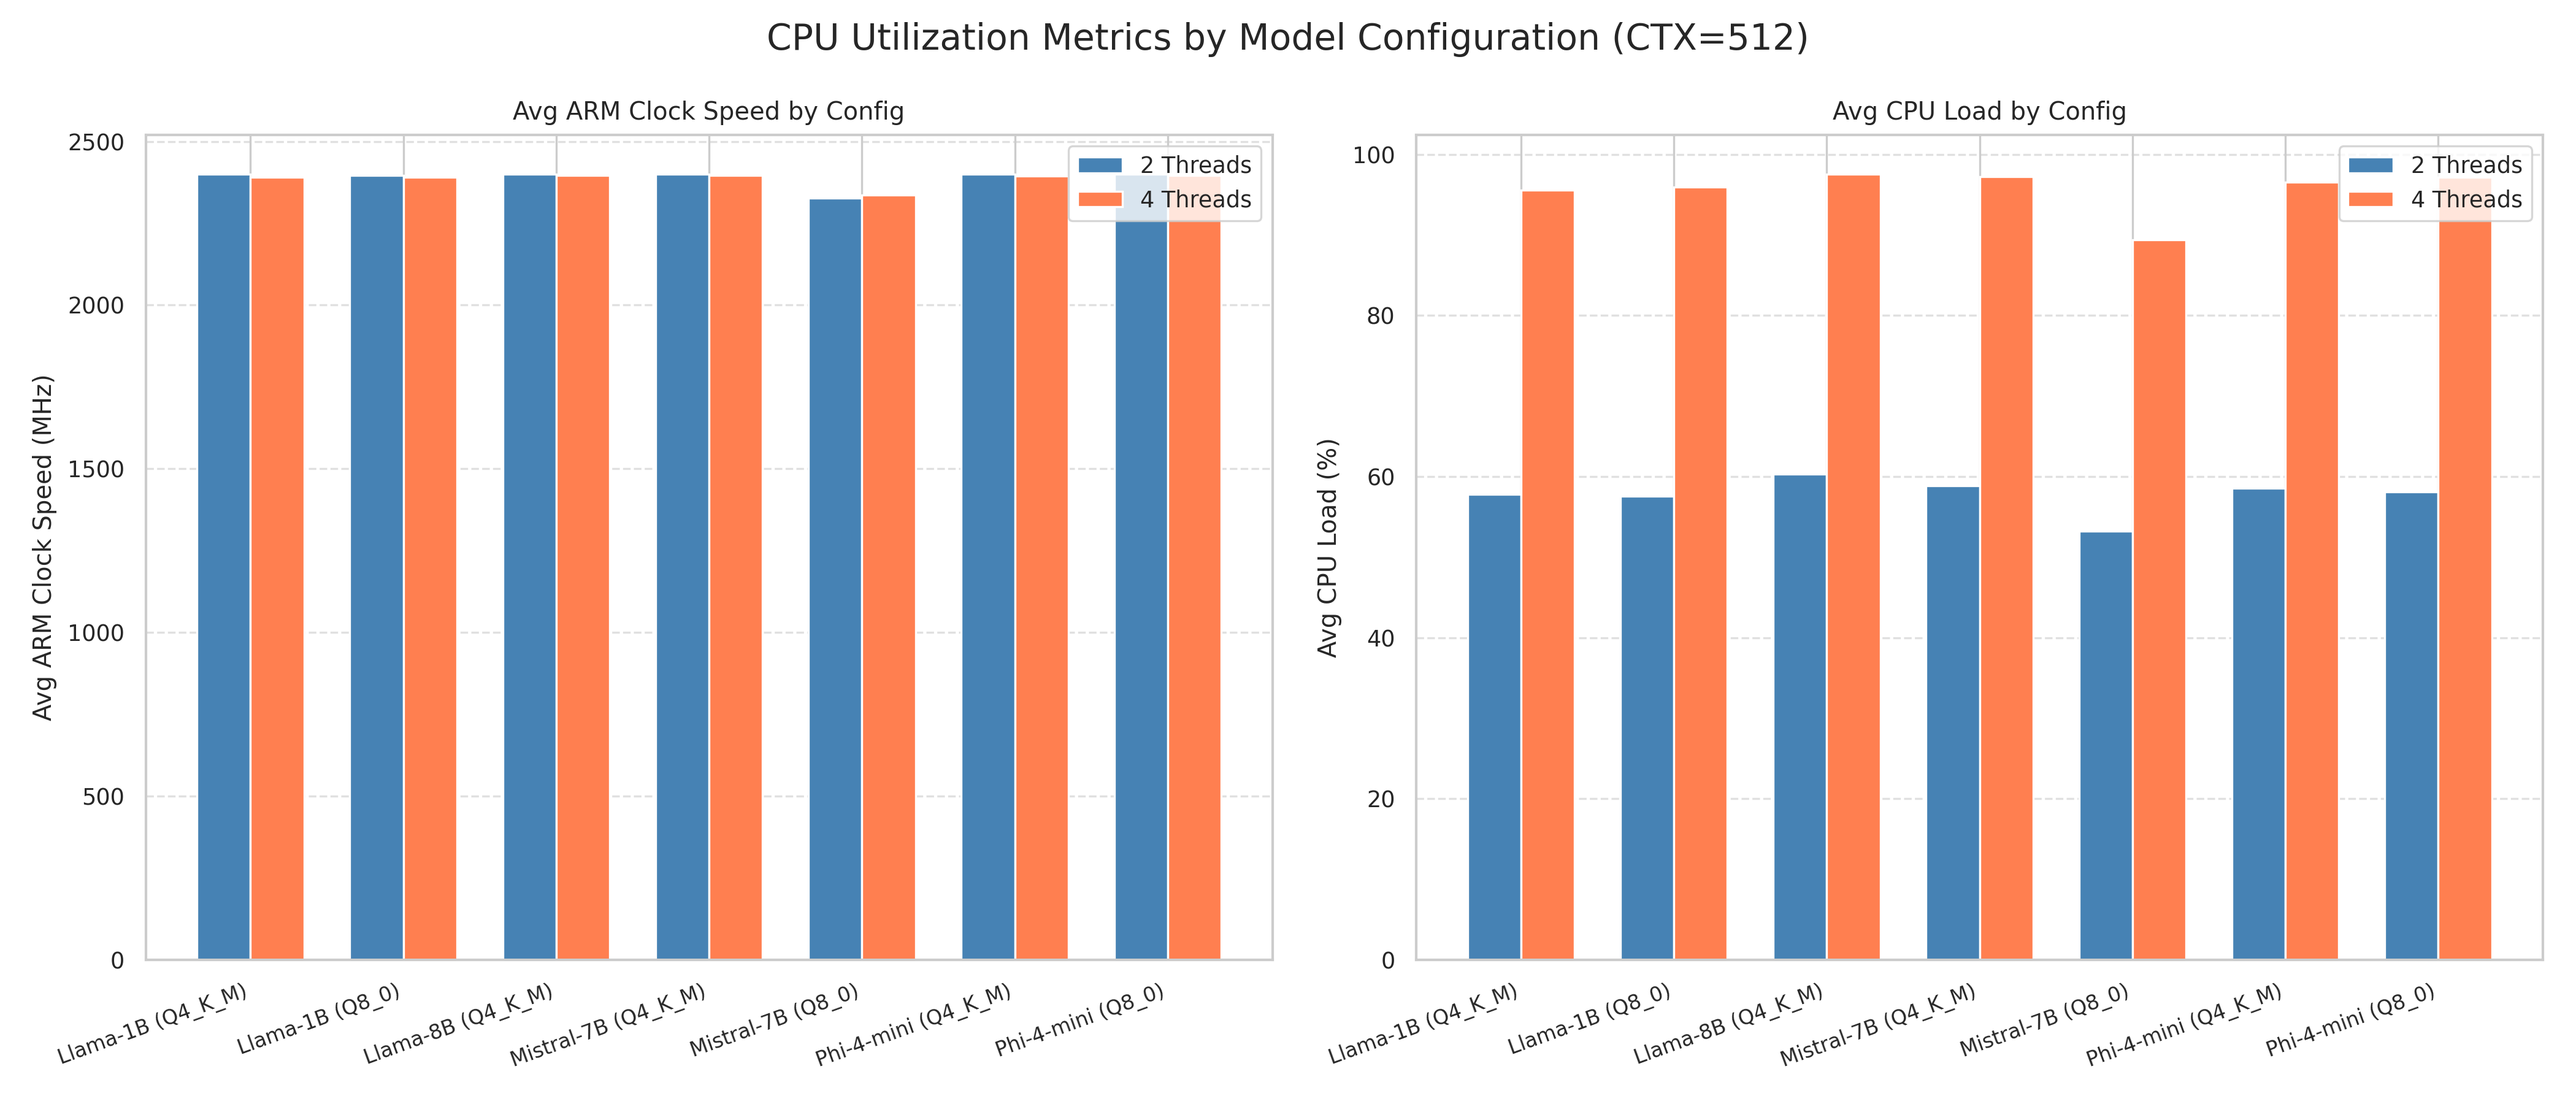
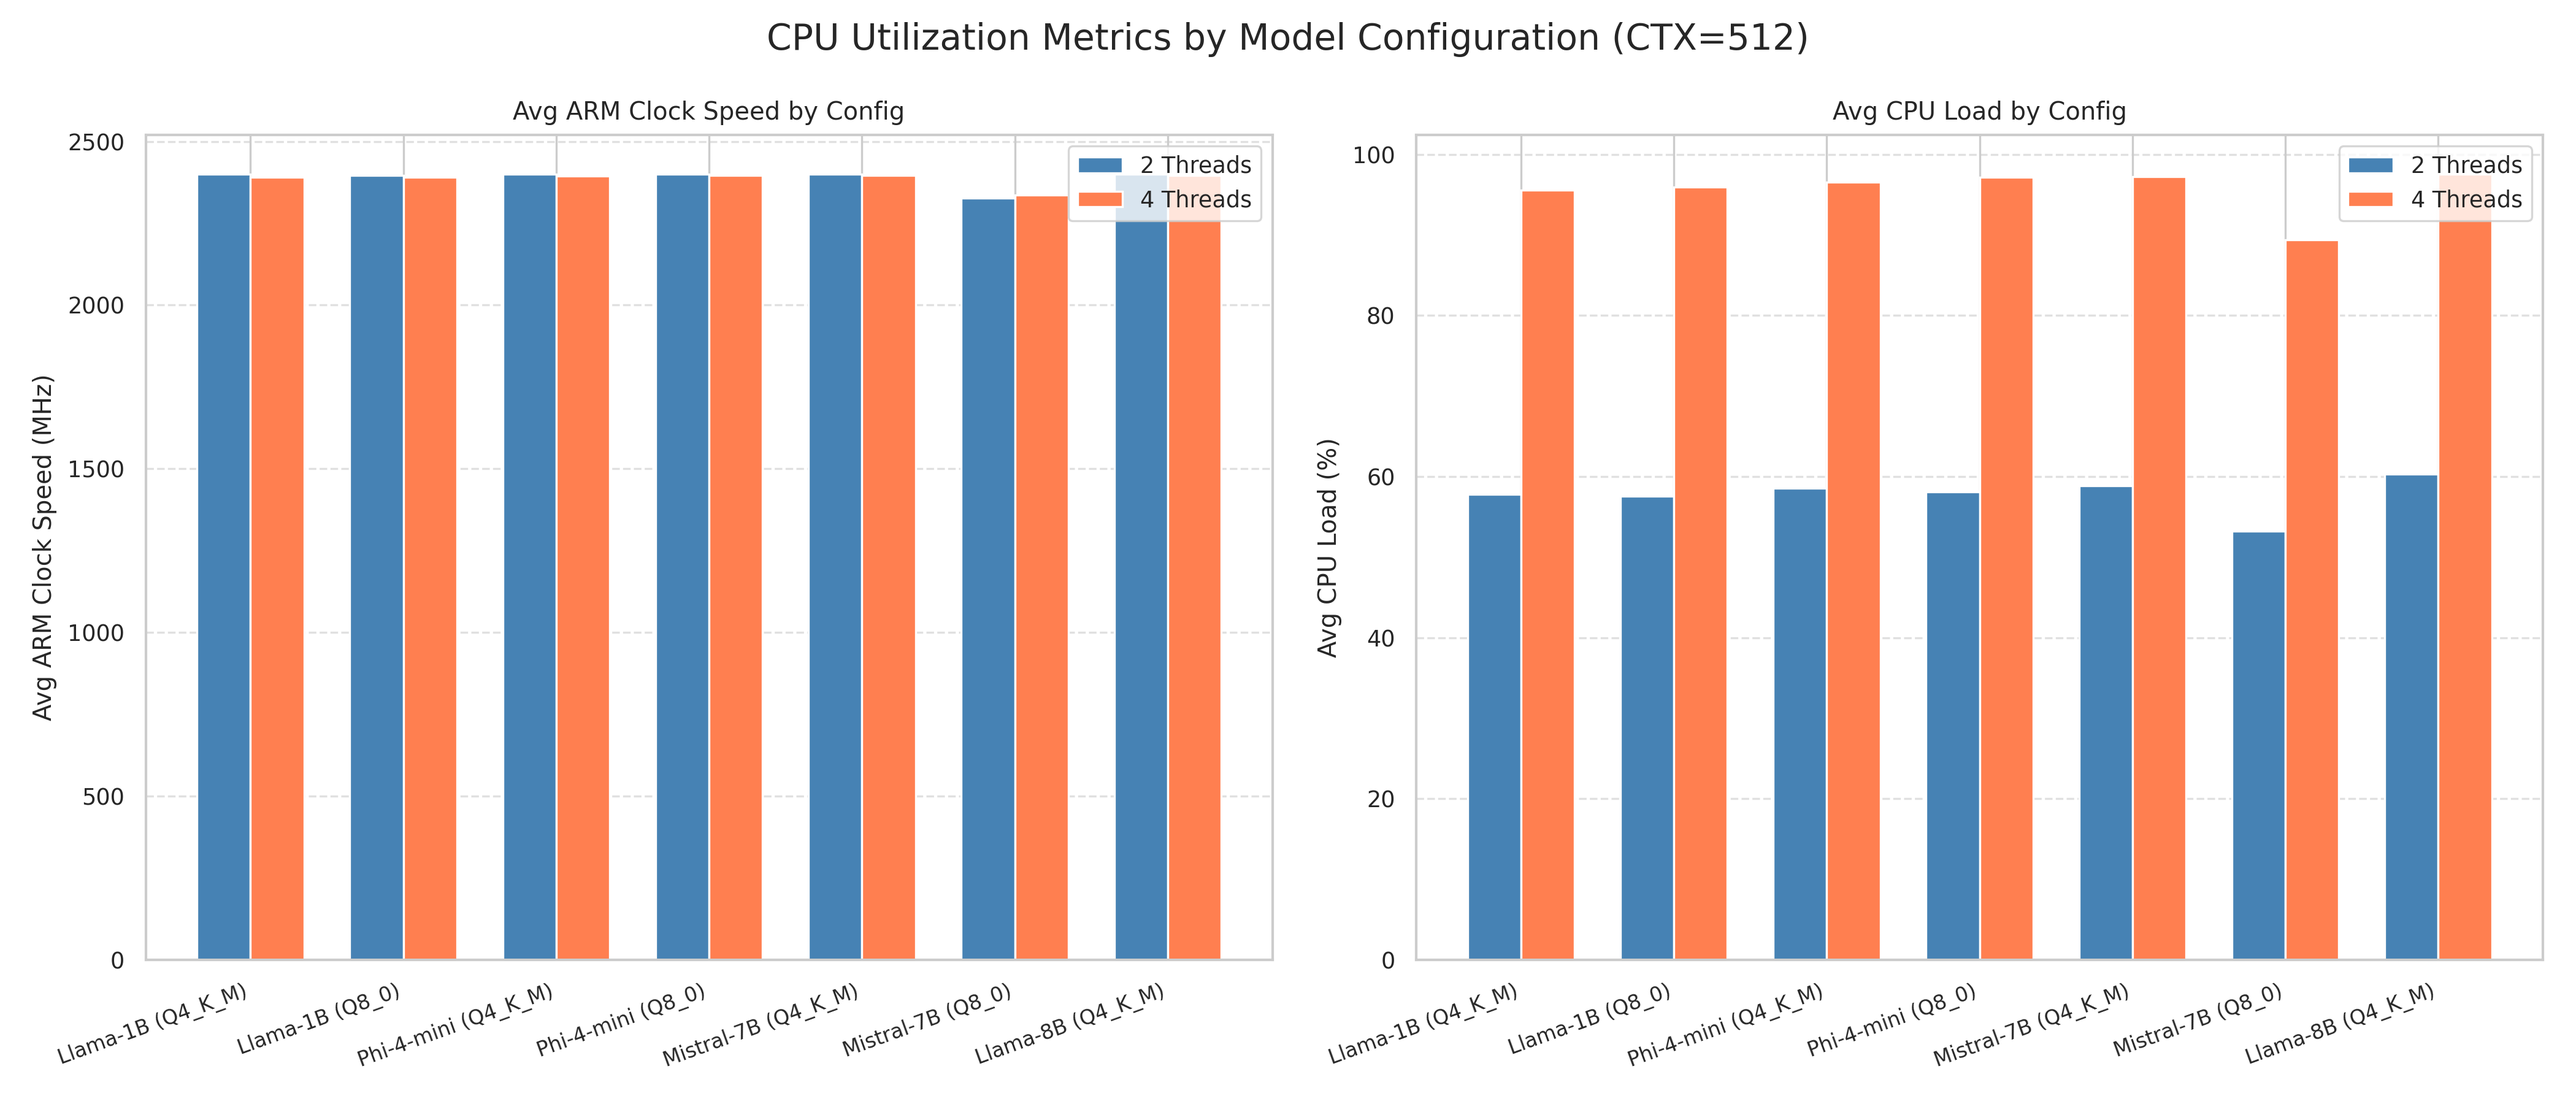
minor updates to plots

diff --git a/scripts/visualizer.py b/scripts/visualizer.py
@@ -13,6 +13,16 @@ DATA_DIR = "../data"
 PLOT_DIR = "../data/plots"
 os.makedirs(PLOT_DIR, exist_ok=True)
 
+# CHANGE: explicit ordering by parameter count — used everywhere to enforce consistent layout
+model_order = ['Llama-1B', 'Phi-4-mini', 'Mistral-7B', 'Llama-8B']
+quant_order  = ['Q4_K_M', 'Q8_0']
+model_full_order = [f"{m} ({q})" for m in model_order for q in quant_order]
+
+def reorder_pivot(pivot, order, col='Model_Full'):
+    """Reindex a pivot dataframe's rows to match the desired model order."""
+    available = [m for m in order if m in pivot[col].values]
+    return pivot.set_index(col).reindex(available).reset_index()
+
 def analyze_results():
     # 1. Load Master Results
     # CHANGE: Explicitly specify all 18 column names — pipeline writes 18 values per row
@@ -35,11 +45,17 @@ def analyze_results():
         'Meta-Llama-3.1-8B': 'Llama-8B'
     }
     master_df['Model_Short'] = master_df['Model'].map(label_map).fillna(master_df['Model'])
-    master_df['Model_Full'] = master_df['Model_Short'] + " (" + master_df['Quant'] + ")"
+    master_df['Model_Full']  = master_df['Model_Short'] + " (" + master_df['Quant'] + ")"
+
+    # CHANGE: enforce parameter-size ordering on label columns so all plots are consistent
+    master_df['Model_Short'] = pd.Categorical(master_df['Model_Short'], categories=model_order,      ordered=True)
+    master_df['Model_Full']  = pd.Categorical(master_df['Model_Full'],  categories=model_full_order, ordered=True)
 
     # 2. Compute Averages per Model/Quant/Context
     # CHANGE: Added hardware metric columns to aggregation
-    summary = master_df.groupby(['Model', 'Model_Short', 'Quant', 'Context', 'Threads']).agg({
+    summary = master_df.groupby(
+        ['Model', 'Model_Short', 'Quant', 'Context', 'Threads'], observed=True
+    ).agg({
         'TPS': 'mean',
         'PPL': 'mean',
         'TTFT': 'mean',
@@ -53,7 +69,11 @@ def analyze_results():
         'Throttled': 'max'
     }).reset_index()
 
-    summary['Model_Full'] = summary['Model_Short'] + " (" + summary['Quant'] + ")"
+    summary['Model_Full'] = summary['Model_Short'].astype(str) + " (" + summary['Quant'] + ")"
+    summary['Model_Full'] = pd.Categorical(summary['Model_Full'], categories=model_full_order, ordered=True)
+
+    # CHANGE: sort summary by the explicit model size order for consistent downstream use
+    summary = summary.sort_values(['Model_Short', 'Quant', 'Context', 'Threads']).reset_index(drop=True)
 
     print("\n" + "="*80)
     print(f"{'MODEL SUMMARY STATISTICS':^80}")
@@ -62,15 +82,18 @@ def analyze_results():
 
     # --- PLOT 1: The Pareto Frontier (PPL vs TPS) ---
     # Average over prompts and threads; one point per model+quant+context combination
-    pareto_df = summary.groupby(['Model_Short', 'Quant', 'Context']).agg({
+    pareto_df = summary.groupby(['Model_Short', 'Quant', 'Context'], observed=True).agg({
         'TPS': 'mean', 'PPL': 'mean'
     }).reset_index()
-    pareto_df['Label'] = pareto_df['Model_Short'] + " (" + pareto_df['Quant'] + ")"
+    pareto_df['Label'] = pareto_df['Model_Short'].astype(str) + " (" + pareto_df['Quant'] + ")"
+
+    # CHANGE: hue_order follows parameter-size ordering
+    label_order = [l for l in model_full_order if l in pareto_df['Label'].values]
 
     plt.figure(figsize=(11, 7))
-    sns.scatterplot(data=pareto_df, x='TPS', y='PPL', hue='Label', style='Quant', s=180, palette='tab10')
+    sns.scatterplot(data=pareto_df, x='TPS', y='PPL', hue='Label', style='Quant',
+                    s=180, palette='tab10', hue_order=label_order)
 
-    # annotate each point with its context window size
     for _, row in pareto_df.iterrows():
         plt.text(row['TPS'] + 0.05, row['PPL'], f"CTX={int(row['Context'])}", fontsize=7.5, alpha=0.85)
 
@@ -87,14 +110,19 @@ def analyze_results():
     fig, axes = plt.subplots(1, 2, figsize=(14, 6), sharey=False)
     for ax, thr in zip(axes, [2, 4]):
         tps_ctx = summary[summary['Threads'] == thr].groupby(
-            ['Model_Short', 'Quant', 'Context']
+            ['Model_Short', 'Quant', 'Context'], observed=True
         )['TPS'].mean().reset_index()
 
-        for (model, quant), grp in tps_ctx.groupby(['Model_Short', 'Quant']):
-            grp = grp.sort_values('Context')
-            linestyle = '--' if quant == 'Q8_0' else '-'
-            ax.plot(grp['Context'], grp['TPS'], marker='o', linestyle=linestyle,
-                    label=f"{model} ({quant})", linewidth=2)
+        # CHANGE: iterate in explicit parameter-size order instead of pandas default
+        for model in model_order:
+            for quant in quant_order:
+                grp = tps_ctx[(tps_ctx['Model_Short'] == model) & (tps_ctx['Quant'] == quant)]
+                if grp.empty:
+                    continue
+                grp = grp.sort_values('Context')
+                linestyle = '--' if quant == 'Q8_0' else '-'
+                ax.plot(grp['Context'], grp['TPS'], marker='o', linestyle=linestyle,
+                        label=f"{model} ({quant})", linewidth=2)
 
         ax.set_title(f"TPS vs. Context Window — {thr} Threads")
         ax.set_xlabel("Context Window Size (tokens)")
@@ -112,18 +140,23 @@ def analyze_results():
     # Memory-bandwidth-bound workloads should show diminishing returns; verify empirically.
     # Fixed to CTX=512 for the most complete dataset across all models.
     thread_df = summary[summary['Context'] == 512].groupby(
-        ['Model_Full', 'Threads']
+        ['Model_Full', 'Threads'], observed=True
     )['TPS'].mean().reset_index()
     thread_pivot = thread_df.pivot(index='Model_Full', columns='Threads', values='TPS').reset_index()
+
+    # CHANGE: reorder rows by parameter size
+    thread_pivot = reorder_pivot(thread_pivot, model_full_order)
 
     x = np.arange(len(thread_pivot))
     width = 0.35
     fig, ax = plt.subplots(figsize=(11, 6))
-    bars2 = ax.bar(x - width/2, thread_pivot[2], width, label='2 Threads', color='steelblue')
-    bars4 = ax.bar(x + width/2, thread_pivot[4], width, label='4 Threads', color='coral')
+    ax.bar(x - width/2, thread_pivot[2], width, label='2 Threads', color='steelblue')
+    ax.bar(x + width/2, thread_pivot[4], width, label='4 Threads', color='coral')
 
     # annotate percent change
     for i, (v2, v4) in enumerate(zip(thread_pivot[2], thread_pivot[4])):
+        if pd.isna(v2) or pd.isna(v4):
+            continue
         pct = (v4 - v2) / v2 * 100
         sign = '+' if pct >= 0 else ''
         ax.text(i, max(v2, v4) + 0.1, f"{sign}{pct:.1f}%", ha='center', fontsize=8, color='dimgray')
@@ -141,7 +174,7 @@ def analyze_results():
     # --- PLOT 4 (NEW): Q4 vs Q8 — Speed and Fidelity Trade-off (CTX=512, THR=2 baseline) ---
     # Side-by-side bars for TPS and PPL comparing Q4_K_M vs Q8_0 at baseline config.
     q_df = summary[(summary['Context'] == 512) & (summary['Threads'] == 2)].groupby(
-        ['Model_Short', 'Quant']
+        ['Model_Short', 'Quant'], observed=True
     ).agg({'TPS': 'mean', 'PPL': 'mean'}).reset_index()
 
     fig, (ax_tps, ax_ppl) = plt.subplots(1, 2, figsize=(14, 6))
@@ -150,6 +183,11 @@ def analyze_results():
         (ax_ppl, 'PPL', 'Perplexity', 'Fidelity — Lower is Better')
     ]:
         pivot = q_df.pivot(index='Model_Short', columns='Quant', values=metric).reset_index()
+
+        # CHANGE: reorder rows by parameter size
+        available = [m for m in model_order if m in pivot['Model_Short'].values]
+        pivot = pivot.set_index('Model_Short').reindex(available).reset_index()
+
         x = np.arange(len(pivot))
         w = 0.35
         ax.bar(x - w/2, pivot['Q4_K_M'], w, label='Q4_K_M', color='mediumseagreen')
@@ -171,14 +209,19 @@ def analyze_results():
     fig, axes = plt.subplots(1, 2, figsize=(14, 6), sharey=False)
     for ax, thr in zip(axes, [2, 4]):
         ttft_ctx = summary[summary['Threads'] == thr].groupby(
-            ['Model_Short', 'Quant', 'Context']
+            ['Model_Short', 'Quant', 'Context'], observed=True
         )['TTFT'].mean().reset_index()
 
-        for (model, quant), grp in ttft_ctx.groupby(['Model_Short', 'Quant']):
-            grp = grp.sort_values('Context')
-            linestyle = '--' if quant == 'Q8_0' else '-'
-            ax.plot(grp['Context'], grp['TTFT'], marker='s', linestyle=linestyle,
-                    label=f"{model} ({quant})", linewidth=2)
+        # CHANGE: iterate in explicit parameter-size order
+        for model in model_order:
+            for quant in quant_order:
+                grp = ttft_ctx[(ttft_ctx['Model_Short'] == model) & (ttft_ctx['Quant'] == quant)]
+                if grp.empty:
+                    continue
+                grp = grp.sort_values('Context')
+                linestyle = '--' if quant == 'Q8_0' else '-'
+                ax.plot(grp['Context'], grp['TTFT'], marker='s', linestyle=linestyle,
+                        label=f"{model} ({quant})", linewidth=2)
 
         ax.set_title(f"TTFT vs. Context Window — {thr} Threads")
         ax.set_xlabel("Context Window Size (tokens)")
@@ -277,11 +320,15 @@ def analyze_results():
     # --- PLOT 7 (NEW): Average Power Draw per Model Configuration ---
     # From master_results Avg_Watts — shows energy cost of each model/quant combination.
     hw_df = summary[summary['Context'] == 512].groupby(
-        ['Model_Full', 'Threads']
+        ['Model_Full', 'Threads'], observed=True
     ).agg({'Avg_Watts': 'mean', 'Peak_Temp': 'mean', 'Avg_Clock': 'mean'}).reset_index()
 
     hw_pivot_w = hw_df.pivot(index='Model_Full', columns='Threads', values='Avg_Watts').reset_index()
     hw_pivot_t = hw_df.pivot(index='Model_Full', columns='Threads', values='Peak_Temp').reset_index()
+
+    # CHANGE: reorder rows by parameter size
+    hw_pivot_w = reorder_pivot(hw_pivot_w, model_full_order)
+    hw_pivot_t = reorder_pivot(hw_pivot_t, model_full_order)
 
     fig, (ax_w, ax_t) = plt.subplots(1, 2, figsize=(14, 6))
 
@@ -309,8 +356,11 @@ def analyze_results():
     # J/Token = Avg_Watts / TPS; lower is better. Uses hardware data directly from master_results.
     eff_df = summary[summary['Context'] == 512].copy()
     eff_df['J_per_Token'] = eff_df['Avg_Watts'] / eff_df['TPS']
-    eff_summary = eff_df.groupby(['Model_Full', 'Threads'])['J_per_Token'].mean().reset_index()
+    eff_summary = eff_df.groupby(['Model_Full', 'Threads'], observed=True)['J_per_Token'].mean().reset_index()
     eff_pivot = eff_summary.pivot(index='Model_Full', columns='Threads', values='J_per_Token').reset_index()
+
+    # CHANGE: reorder rows by parameter size
+    eff_pivot = reorder_pivot(eff_pivot, model_full_order)
 
     x = np.arange(len(eff_pivot))
     w = 0.35
@@ -331,9 +381,13 @@ def analyze_results():
     # Reveals where throughput collapses; the key "edge cliff" visualization.
     # Fixed to THR=2 as baseline; averaged over prompts.
     heatmap_df = summary[summary['Threads'] == 2].groupby(
-        ['Model_Full', 'Context']
+        ['Model_Full', 'Context'], observed=True
     )['TPS'].mean().reset_index()
     heatmap_pivot = heatmap_df.pivot(index='Model_Full', columns='Context', values='TPS')
+
+    # CHANGE: reorder rows by parameter size (small → large models, top to bottom)
+    available_rows = [m for m in model_full_order if m in heatmap_pivot.index]
+    heatmap_pivot = heatmap_pivot.loc[available_rows]
 
     fig, ax = plt.subplots(figsize=(9, 6))
     sns.heatmap(
@@ -350,10 +404,14 @@ def analyze_results():
     # --- PLOT 10 (NEW): Clock Speed and CPU Load vs Model Config ---
     # ARM Cortex-A76 scales frequency under load; shows how hard each model pushes the CPU.
     clock_df = summary[summary['Context'] == 512].groupby(
-        ['Model_Full', 'Threads']
+        ['Model_Full', 'Threads'], observed=True
     ).agg({'Avg_Clock': 'mean', 'Avg_CPU': 'mean'}).reset_index()
     clock_pivot = clock_df.pivot(index='Model_Full', columns='Threads', values='Avg_Clock').reset_index()
     cpu_pivot   = clock_df.pivot(index='Model_Full', columns='Threads', values='Avg_CPU').reset_index()
+
+    # CHANGE: reorder rows by parameter size
+    clock_pivot = reorder_pivot(clock_pivot, model_full_order)
+    cpu_pivot   = reorder_pivot(cpu_pivot,   model_full_order)
 
     fig, (ax_c, ax_u) = plt.subplots(1, 2, figsize=(14, 6))
     for ax, pivot, ylabel, title in [
@@ -380,7 +438,7 @@ def analyze_results():
     print("\n" + "="*80)
     print(f"{'ENERGY EFFICIENCY (JOULES/TOKEN) — CTX=512':^80}")
     print("="*80)
-    eff_print = eff_df.groupby(['Model_Full', 'Threads']).agg(
+    eff_print = eff_df.groupby(['Model_Full', 'Threads'], observed=True).agg(
         Avg_W=('Avg_Watts', 'mean'),
         TPS=('TPS', 'mean'),
         J_per_Token=('J_per_Token', 'mean')
@@ -391,7 +449,9 @@ def analyze_results():
     print("\n" + "="*80)
     print(f"{'HARDWARE TELEMETRY SUMMARY (AVG ACROSS PROMPTS)':^80}")
     print("="*80)
-    hw_print = summary[summary['Context'] == 512].groupby(['Model_Full', 'Context', 'Threads']).agg(
+    hw_print = summary[summary['Context'] == 512].groupby(
+        ['Model_Full', 'Context', 'Threads'], observed=True
+    ).agg(
         Avg_W=('Avg_Watts', 'mean'),
         Peak_T=('Peak_Temp', 'mean'),
         Avg_CPU=('Avg_CPU', 'mean'),
